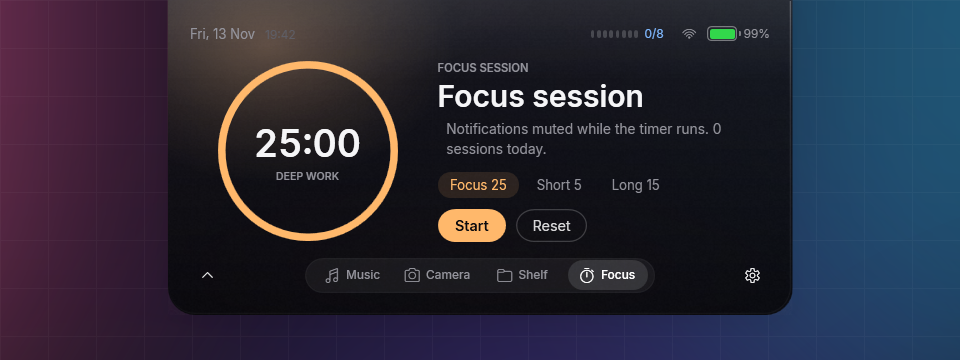
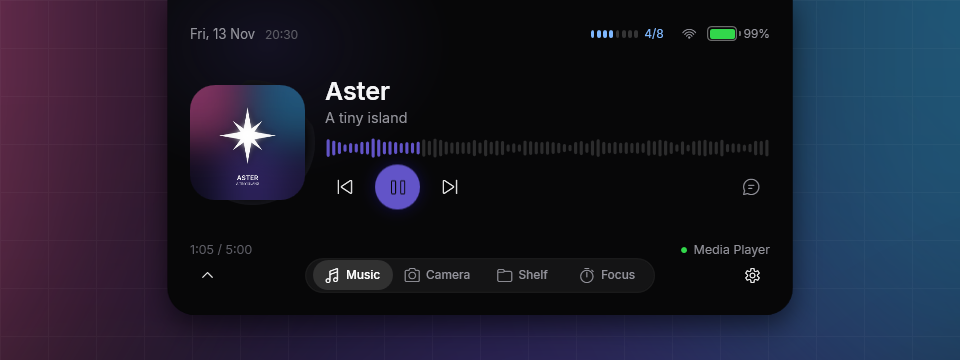
Use Music screenshot in README

diff --git a/README.md b/README.md
@@ -9,7 +9,7 @@ Dibuat dari nol dengan **C# / WPF (.NET 8)**.
 ## Preview
 
 <p align="center">
-  <img src="docs/aster-preview.png" alt="Aster expanded - Focus timer" width="860" />
+  <img src="docs/aster-preview.png" alt="Aster expanded - Music" width="860" />
 </p>
 
 <p align="center">
